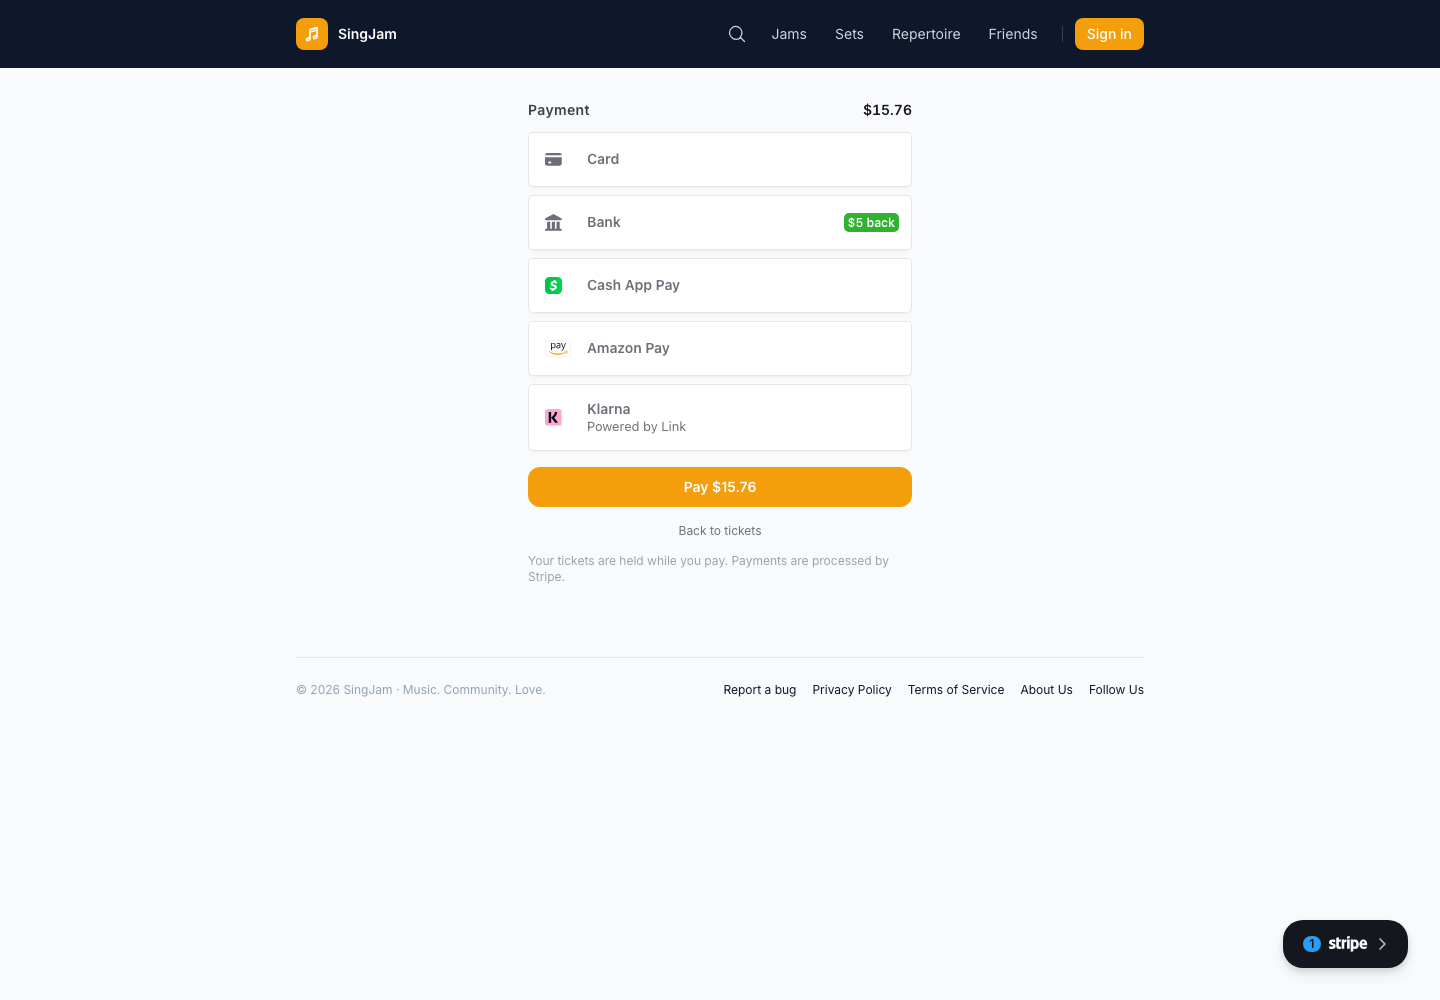
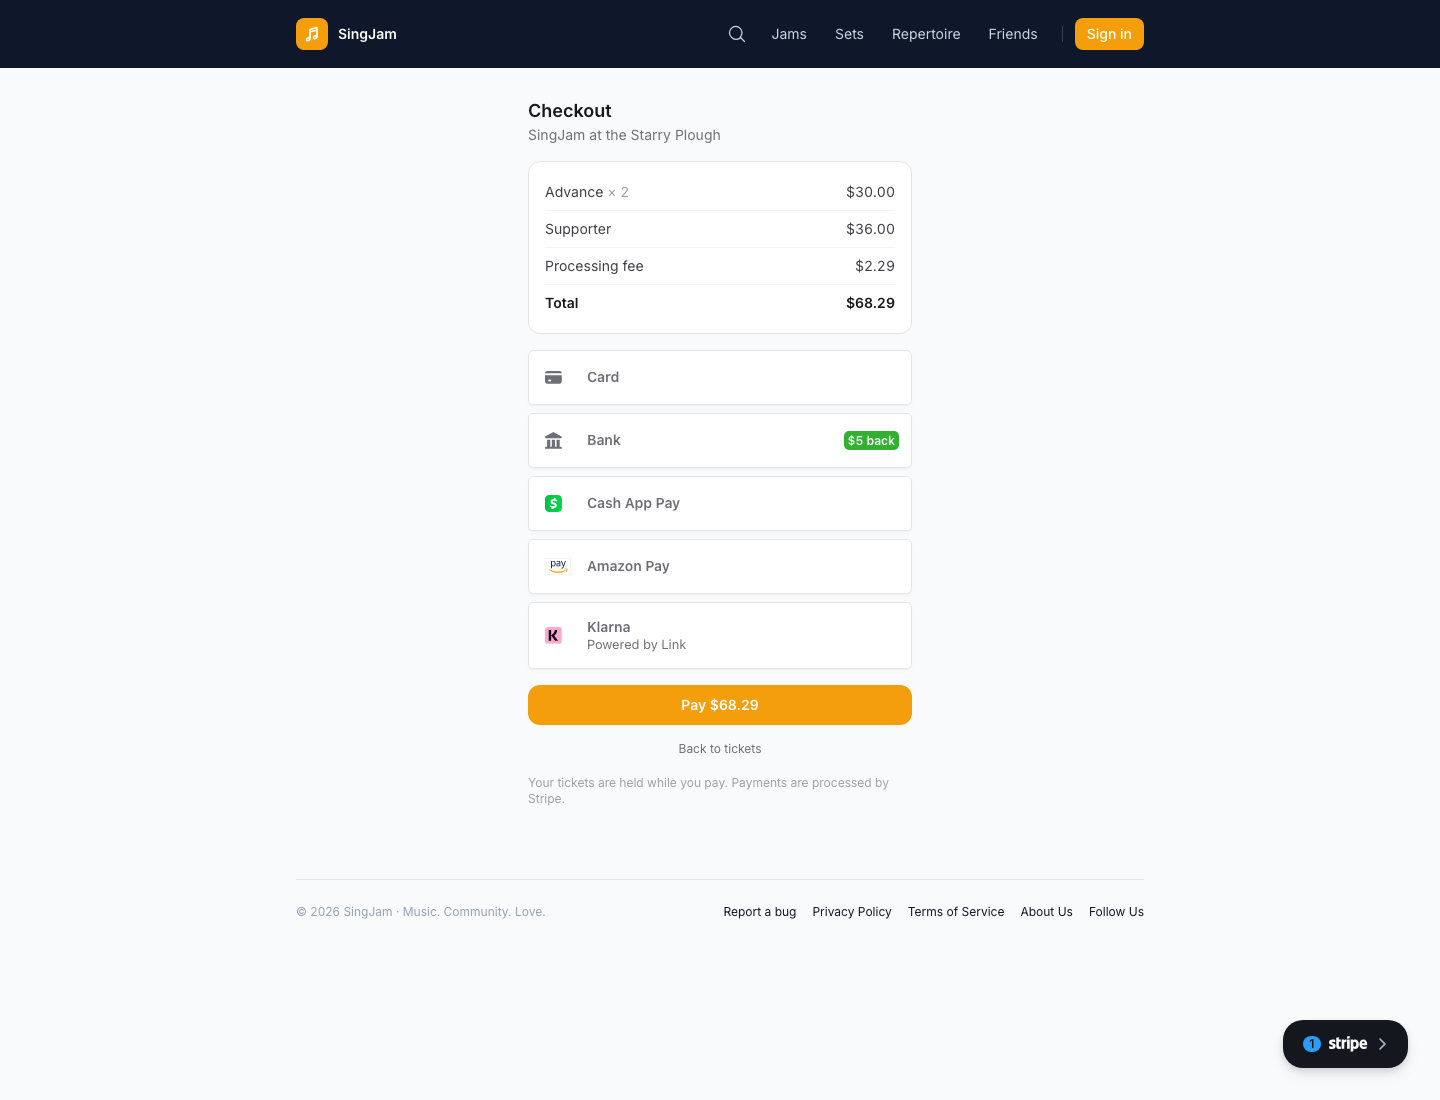
feat: show the order on the payment page
The page asked for a card without saying what for — no event name, no tiers, no
quantities, just a total. Now it opens with "Checkout", the event name, and a
line per tier with quantities, the processing fee as its own row, a discount row
when one applies, and the total.

Read off the Checkout Session rather than rebuilt from our tables, so the rows
cannot disagree with what is being charged: Stripe holds both the promotion-code
discount and the processing-fee line, and neither is recoverable from
ticket_orders, whose amount_cents is only the ticket subtotal. line_items needs
expand on retrieve; total_details comes back by default.

Stripe names each line "<event> — <tier>", which is right on a receipt but
repeats the event name down every row here. The prefix comes off only on an
exact match against the event name, so a differently-named event keeps its full
line rather than being mangled by a guess at the separator.

Verified with 2 Advance + 1 Supporter and the fee covered: rows read $30.00 /
$36.00 / $2.29, they add to the total, and the total matches both the event
page's Buy button and Stripe's own Pay button at $68.29 — one price on screen
in three places. Survives a reload without minting an order.

diff --git a/apps/web/components/TicketPaymentPanel.tsx b/apps/web/components/TicketPaymentPanel.tsx
@@ -3,6 +3,7 @@
 import { useRouter } from "next/navigation";
 import { loadStripe } from "@stripe/stripe-js";
 import { CheckoutElementsProvider } from "@stripe/react-stripe-js/checkout";
+import type { PaymentLine } from "@/lib/ticketPaymentState";
 import TicketCheckoutForm from "./TicketCheckoutForm";
 
 // Loaded once at module scope, not per render — re-calling loadStripe on every
@@ -13,37 +14,78 @@ const money = (cents: number, currency: string) =>
   new Intl.NumberFormat("en-US", { style: "currency", currency: currency.toUpperCase() }).format(cents / 100);
 
 /**
- * The card form, alone on the page. Same narrow column the tier list uses, so
- * the two steps line up instead of the layout jumping between them.
+ * The card form, alone on the page, above it the order it belongs to.
  *
- * TicketCheckoutForm is left exactly as it was — it owns the "Back to tickets"
+ * The summary is read off the Checkout Session upstream, not rebuilt from our
+ * tables, so the rows always add up to the amount on the button — Stripe holds
+ * both the promotion-code discount and the processing-fee line.
+ *
+ * TicketCheckoutForm is left exactly as it was: it owns the "Back to tickets"
  * affordances and the confirm button, and it is the last thing between a buyer
  * and their money, so it gets a navigating callback rather than an edit. Going
- * back is safe now in a way it was not before: the selection is already
- * reserved server-side under this order, so returning here reloads the same
- * held order instead of minting a second one.
+ * back is safe now in a way it was not before — the selection is already
+ * reserved server-side under this order, so returning reloads the same held
+ * order instead of minting a second one.
  */
 export default function TicketPaymentPanel({
   clientSecret,
   amountCents,
   currency,
+  lines,
+  discountCents,
+  eventName,
   backHref,
 }: {
   clientSecret: string;
   amountCents: number;
   currency: string;
+  lines: PaymentLine[];
+  discountCents: number;
+  eventName: string | null;
   backHref: string;
 }) {
   const router = useRouter();
 
   return (
-    <div className="mx-auto max-w-sm space-y-3">
-      <div className="flex items-baseline justify-between gap-3">
-        <h1 className="text-sm font-semibold tracking-wide text-zinc-700">Payment</h1>
-        <p className="text-sm font-semibold tabular-nums text-zinc-900">
-          {money(amountCents, currency)}
-        </p>
+    <div className="mx-auto max-w-sm space-y-4">
+      <div>
+        <h1 className="text-lg font-semibold leading-tight text-zinc-900">Checkout</h1>
+        {eventName && <p className="mt-0.5 text-sm text-zinc-500">{eventName}</p>}
       </div>
+
+      {/* Rendered only when the line items came back — never a summary that
+          disagrees with the total, or an empty box where one should be. */}
+      {lines.length > 0 && (
+        <div className="rounded-xl border border-zinc-200 bg-white px-4 py-3 text-sm">
+          <ul className="divide-y divide-zinc-100">
+            {lines.map((line, i) => (
+              <li key={`${line.label}-${i}`} className="flex items-baseline justify-between gap-3 py-2">
+                <span className="min-w-0 text-zinc-700">
+                  {line.label}
+                  {line.quantity > 1 && (
+                    <span className="text-zinc-400"> × {line.quantity}</span>
+                  )}
+                </span>
+                <span className="shrink-0 tabular-nums text-zinc-700">
+                  {money(line.amountCents, currency)}
+                </span>
+              </li>
+            ))}
+
+            {discountCents > 0 && (
+              <li className="flex items-baseline justify-between gap-3 py-2 text-green-700">
+                <span>Discount</span>
+                <span className="shrink-0 tabular-nums">−{money(discountCents, currency)}</span>
+              </li>
+            )}
+
+            <li className="flex items-baseline justify-between gap-3 py-2 font-semibold text-zinc-900">
+              <span>Total</span>
+              <span className="shrink-0 tabular-nums">{money(amountCents, currency)}</span>
+            </li>
+          </ul>
+        </div>
+      )}
 
       <CheckoutElementsProvider stripe={stripePromise} options={{ clientSecret }}>
         <TicketCheckoutForm onBack={() => router.push(backHref)} />

diff --git a/apps/web/lib/ticketPaymentState.ts b/apps/web/lib/ticketPaymentState.ts
@@ -24,17 +24,64 @@ export type PaymentOrder = {
   expires_at: string;
 };
 
+/** One row of the order summary. */
+export type PaymentLine = { label: string; quantity: number; amountCents: number };
+
+/** The shape of a Stripe line item, as much of it as the summary needs. */
+export type SessionLineItem = {
+  description?: string | null;
+  quantity?: number | null;
+  amount_total?: number | null;
+};
+
 /** The Checkout Session fields this needs, or null when it could not be read. */
 export type PaymentSession = {
   status: string | null;
   client_secret: string | null;
   /** What Stripe will actually charge, in the smallest currency unit. */
   amount_total: number | null;
+  /** Requires expand: ['line_items'] on retrieve. */
+  line_items?: SessionLineItem[] | null;
+  /** Session-level discount, which is where a promotion code lands. */
+  discount_cents?: number | null;
 } | null;
+
+/**
+ * The order summary, read off the session rather than rebuilt from our own
+ * tables, so it cannot disagree with the amount being charged. Stripe holds the
+ * promotion-code discount and the processing-fee line, neither of which is
+ * recoverable from ticket_orders alone.
+ *
+ * Line names are created as "<event> — <tier>", which is right in a Stripe
+ * receipt but repeats the event name down every row here. The prefix is only
+ * removed when it matches the event name exactly — no guessing at a separator.
+ */
+export function summarisePaymentLines(
+  items: SessionLineItem[] | null | undefined,
+  eventName?: string | null
+): PaymentLine[] {
+  const prefix = eventName ? `${eventName} — ` : null;
+  return (items ?? []).map((item) => {
+    const raw = (item.description ?? "").trim();
+    const label = prefix && raw.startsWith(prefix) ? raw.slice(prefix.length) : raw;
+    return {
+      label: label || "Ticket",
+      quantity: item.quantity ?? 1,
+      amountCents: item.amount_total ?? 0,
+    };
+  });
+}
 
 export type TicketPaymentState =
   /** Mount the Payment Element with this secret. */
-  | { kind: "pay"; clientSecret: string; amountCents: number; currency: string }
+  | {
+      kind: "pay";
+      clientSecret: string;
+      amountCents: number;
+      currency: string;
+      lines: PaymentLine[];
+      discountCents: number;
+    }
   /** Already paid, or Stripe says the session completed — show the receipt. */
   | { kind: "done" }
   /** The hold or the session lapsed; the buyer has to start again. */
@@ -43,7 +90,8 @@ export type TicketPaymentState =
 export function resolveTicketPaymentState(
   order: PaymentOrder,
   session: PaymentSession,
-  now: Date = new Date()
+  now: Date = new Date(),
+  eventName?: string | null
 ): TicketPaymentState {
   // A paid order is finished whatever Stripe currently says about the session.
   if (order.status === "paid" || order.status === "refunded") return { kind: "done" };
@@ -76,5 +124,7 @@ export function resolveTicketPaymentState(
     // the order here put two different prices on one screen.
     amountCents: session.amount_total ?? order.amount_cents,
     currency: order.currency,
+    lines: summarisePaymentLines(session.line_items, eventName),
+    discountCents: session.discount_cents ?? 0,
   };
 }

diff --git a/apps/web/lib/ticketPaymentState.test.ts b/apps/web/lib/ticketPaymentState.test.ts
@@ -1,5 +1,9 @@
 import { describe, it, expect } from "vitest";
-import { resolveTicketPaymentState, type PaymentOrder } from "./ticketPaymentState";
+import {
+  resolveTicketPaymentState,
+  summarisePaymentLines,
+  type PaymentOrder,
+} from "./ticketPaymentState";
 
 const NOW = new Date("2026-09-09T21:00:00Z");
 const LATER = "2026-09-09T21:30:00Z"; // hold still live
@@ -23,6 +27,8 @@ describe("resolveTicketPaymentState", () => {
       clientSecret: "cs_test_abc_secret_xyz",
       amountCents: 1576,
       currency: "usd",
+      lines: [],
+      discountCents: 0,
     });
   });
 
@@ -101,5 +107,65 @@ describe("resolveTicketPaymentState", () => {
     expect(
       resolveTicketPaymentState(order(), { status: "open", client_secret: null, amount_total: 1576 }, NOW).kind
     ).toBe("expired");
+  });
+});
+
+describe("summarisePaymentLines", () => {
+  const EVENT = "SingJam at the Starry Plough";
+
+  it("strips the event-name prefix Stripe line names carry", () => {
+    expect(
+      summarisePaymentLines(
+        [{ description: `${EVENT} — Advance`, quantity: 2, amount_total: 3000 }],
+        EVENT
+      )
+    ).toEqual([{ label: "Advance", quantity: 2, amountCents: 3000 }]);
+  });
+
+  it("leaves a line that does not carry the prefix alone", () => {
+    // The processing fee is its own line and was never prefixed.
+    expect(
+      summarisePaymentLines([{ description: "Processing fee", quantity: 1, amount_total: 76 }], EVENT)
+    ).toEqual([{ label: "Processing fee", quantity: 1, amountCents: 76 }]);
+  });
+
+  it("only strips an exact match, never a partial one", () => {
+    const lines = summarisePaymentLines(
+      [{ description: "SingJam at the Oakland Grove — Advance", quantity: 1, amount_total: 1500 }],
+      EVENT
+    );
+    expect(lines[0].label).toBe("SingJam at the Oakland Grove — Advance");
+  });
+
+  it("keeps the full name when the event name is unknown", () => {
+    const lines = summarisePaymentLines(
+      [{ description: `${EVENT} — Advance`, quantity: 1, amount_total: 1500 }],
+      null
+    );
+    expect(lines[0].label).toBe(`${EVENT} — Advance`);
+  });
+
+  it("fills in for a missing description, quantity or amount", () => {
+    expect(summarisePaymentLines([{}], EVENT)).toEqual([
+      { label: "Ticket", quantity: 1, amountCents: 0 },
+    ]);
+  });
+
+  it("returns nothing when line items were not expanded", () => {
+    expect(summarisePaymentLines(null, EVENT)).toEqual([]);
+    expect(summarisePaymentLines(undefined, EVENT)).toEqual([]);
+  });
+
+  it("keeps several tiers in the order Stripe returned them", () => {
+    const lines = summarisePaymentLines(
+      [
+        { description: `${EVENT} — Advance`, quantity: 2, amount_total: 3000 },
+        { description: `${EVENT} — Supporter`, quantity: 1, amount_total: 3600 },
+        { description: "Processing fee", quantity: 1, amount_total: 222 },
+      ],
+      EVENT
+    );
+    expect(lines.map((l) => l.label)).toEqual(["Advance", "Supporter", "Processing fee"]);
+    expect(lines.reduce((sum, l) => sum + l.amountCents, 0)).toBe(6822);
   });
 });

diff --git a/apps/web/app/jam/[id]/tickets/pay/page.tsx b/apps/web/app/jam/[id]/tickets/pay/page.tsx
@@ -37,6 +37,10 @@ export default async function TicketPaymentPage({
   const { data: { user } } = await supabase.auth.getUser();
 
   const admin = supabaseAdmin();
+  // Only for the summary: the event name lets the per-tier line names shed the
+  // "<event> — " prefix Stripe carries, and orients a page that otherwise shows
+  // nothing about what is being bought.
+  const { data: jam } = await admin.from("jams").select("name").eq("id", jamId).maybeSingle();
   const { data: order } = await admin
     .from("ticket_orders")
     .select("id, jam_id, status, amount_cents, currency, buyer_user_id, stripe_checkout_session_id, expires_at")
@@ -57,8 +61,17 @@ export default async function TicketPaymentPage({
   let session: PaymentSession = null;
   if (mine.stripe_checkout_session_id) {
     try {
-      const s = await stripe().checkout.sessions.retrieve(mine.stripe_checkout_session_id);
-      session = { status: s.status, client_secret: s.client_secret, amount_total: s.amount_total };
+      // line_items has to be expanded; total_details comes back by default.
+      const s = await stripe().checkout.sessions.retrieve(mine.stripe_checkout_session_id, {
+        expand: ["line_items"],
+      });
+      session = {
+        status: s.status,
+        client_secret: s.client_secret,
+        amount_total: s.amount_total,
+        line_items: s.line_items?.data ?? null,
+        discount_cents: s.total_details?.amount_discount ?? 0,
+      };
     } catch {
       // A key in the wrong mode, a deleted session, Stripe being down. Falls
       // through to "expired", which offers to start again — never a card form.
@@ -66,7 +79,7 @@ export default async function TicketPaymentPage({
     }
   }
 
-  const state = resolveTicketPaymentState(mine as any, session);
+  const state = resolveTicketPaymentState(mine as any, session, new Date(), jam?.name ?? null);
 
   if (state.kind === "done") {
     redirect(`/jam/${jamId}/tickets/complete?order_id=${mine.id}`);
@@ -95,6 +108,9 @@ export default async function TicketPaymentPage({
       clientSecret={state.clientSecret}
       amountCents={state.amountCents}
       currency={state.currency}
+      lines={state.lines}
+      discountCents={state.discountCents}
+      eventName={jam?.name ?? null}
       backHref={backToEvent}
     />
   );

diff --git a/apps/web/app/jam/[id]/tickets/pay/loading.tsx b/apps/web/app/jam/[id]/tickets/pay/loading.tsx
@@ -4,10 +4,18 @@
 // the layout jumping.
 export default function TicketPaymentLoading() {
   return (
-    <div className="mx-auto max-w-sm space-y-3" aria-busy="true">
-      <div className="flex items-baseline justify-between gap-3">
-        <div className="h-4 w-20 animate-pulse rounded bg-zinc-200" />
-        <div className="h-4 w-14 animate-pulse rounded bg-zinc-200" />
+    <div className="mx-auto max-w-sm space-y-4" aria-busy="true">
+      <div>
+        <div className="h-5 w-24 animate-pulse rounded bg-zinc-200" />
+        <div className="mt-1.5 h-4 w-48 animate-pulse rounded bg-zinc-100" />
+      </div>
+      <div className="space-y-2 rounded-xl border border-zinc-200 px-4 py-3">
+        {[0, 1, 2].map((i) => (
+          <div key={i} className="flex items-baseline justify-between gap-3">
+            <div className="h-4 w-24 animate-pulse rounded bg-zinc-100" />
+            <div className="h-4 w-12 animate-pulse rounded bg-zinc-100" />
+          </div>
+        ))}
       </div>
       <div className="space-y-3">
         <div className="h-4 w-28 animate-pulse rounded bg-zinc-200" />
